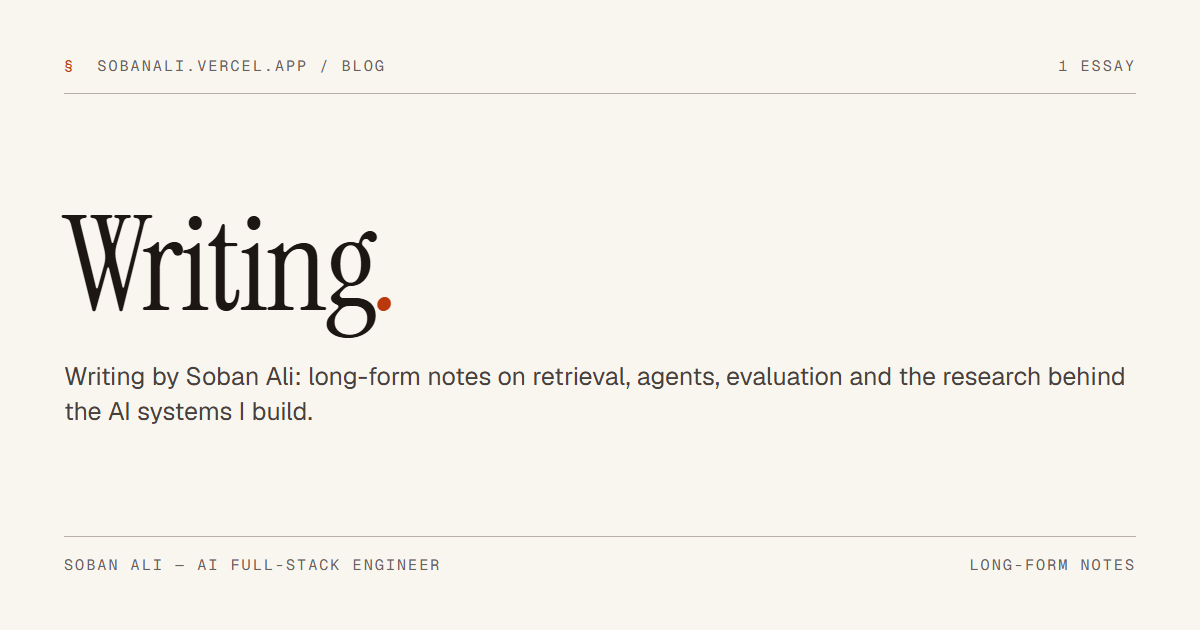
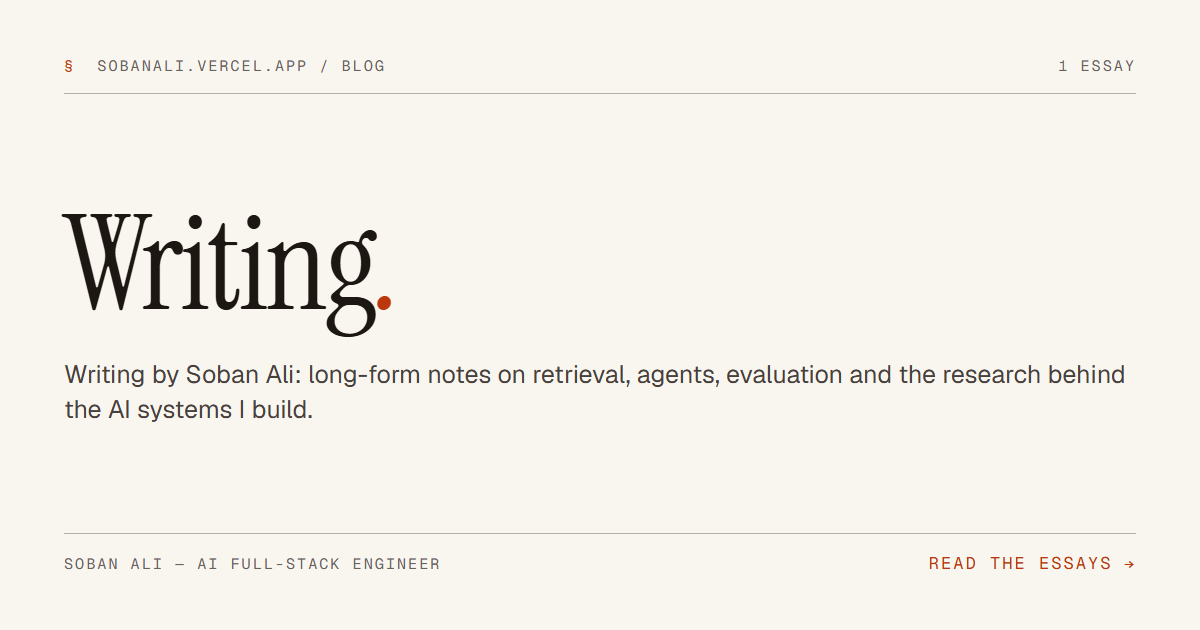
Shorten preview text and add a call to action to the images
Titles stay under 60 characters and preview descriptions under 125, with
optional shareTitle/shareDescription on posts whose own run longer. The
home page gets separate search and preview descriptions, and each card
ends with a vermilion call to action.

diff --git a/src/blog/posts.ts b/src/blog/posts.ts
@@ -11,6 +11,10 @@ export interface Post {
   // The part of the title set in the italic accent; must be a suffix of `title`.
   titleAccent?: string;
   description: string;
+  // Shorter versions for search results and link previews (≤60 / ≤125 characters,
+  // before " — Soban Ali" is added to the title). Fall back to title/description.
+  shareTitle?: string;
+  shareDescription?: string;
   date: string; // ISO date, e.g. "2026-10-04"
   readingMinutes: number;
   tags: string[];
@@ -22,6 +26,10 @@ export interface Post {
   loadBody: () => Promise<string>;
 }
 
+// The <title>/og:title and description used when a post is shared or indexed.
+export const postPageTitle = (post: Post) => `${post.shareTitle ?? post.title} — ${profile.name}`;
+export const postPageDescription = (post: Post) => post.shareDescription ?? post.description;
+
 // Newest first. Adding a post: put the Markdown (without its title) in
 // src/content/blog/<slug>.md and add an entry here.
 export const posts: Post[] = [
@@ -29,6 +37,9 @@ export const posts: Post[] = [
     slug: 'chunking-strategies-for-rag',
     title: 'Chunking Strategies for RAG: How to Choose the Right Approach',
     titleAccent: 'How to Choose the Right Approach',
+    shareTitle: 'How to Choose a Chunking Strategy for RAG',
+    shareDescription:
+      'A practical guide to fixed-size, recursive, semantic and document-aware chunking, and how to evaluate each for RAG.',
     description:
       'A practical guide to fixed-size, recursive, semantic and document-aware chunking, with overlap, parent-child retrieval and evaluation strategies for RAG systems.',
     date: '2026-10-04',

diff --git a/index.html b/index.html
@@ -4,14 +4,14 @@
     <meta charset="UTF-8" />
     <link rel="icon" type="image/svg+xml" href="/favicon.svg" />
     <meta name="viewport" content="width=device-width, initial-scale=1.0" />
-    <meta name="description" content="Soban Ali — AI full-stack engineer and final-year CS student at FAST NUCES. Multi-agent systems, RAG pipelines, and research replications that beat their baselines." />
+    <meta name="description" content="Soban Ali, AI full-stack engineer and final-year CS student at FAST NUCES, building multi-agent systems, RAG pipelines and research replications." />
     <meta name="theme-color" content="#F7F3EC" media="(prefers-color-scheme: light)" />
     <meta name="theme-color" content="#16130F" media="(prefers-color-scheme: dark)" />
     <!-- Link previews. The build rewrites these per blog route (see vite.config.ts). -->
     <link rel="canonical" href="https://sobanali.vercel.app/" />
     <meta property="og:site_name" content="Soban Ali" />
     <meta property="og:title" content="Soban Ali — AI Full-Stack Engineer" />
-    <meta property="og:description" content="AI full-stack engineer and final-year CS student at FAST NUCES. Multi-agent systems, RAG pipelines, and research replications that beat their baselines." />
+    <meta property="og:description" content="AI full-stack engineer building multi-agent systems, RAG pipelines and research replications that beat their baselines." />
     <meta property="og:type" content="website" />
     <meta property="og:url" content="https://sobanali.vercel.app/" />
     <meta property="og:image" content="https://sobanali.vercel.app/og/home.png" />

diff --git a/src/blog/BlogPost.tsx b/src/blog/BlogPost.tsx
@@ -7,7 +7,7 @@ import { profile } from '../data/content';
 import { BLOG_HREF, BlogShell, CONTAINER, EASE, Em, setMeta } from './BlogLayout';
 import Markdown from './Markdown';
 import TableOfContents, { useActiveHeading, useHeadings } from './TableOfContents';
-import { formatDate, getPost, postHref, posts, type Post } from './posts';
+import { formatDate, getPost, postHref, postPageDescription, postPageTitle, posts, type Post } from './posts';
 
 const tagHref = (tag: string) => `${BLOG_HREF}?tag=${encodeURIComponent(tag)}`;
 const X_HANDLE = profile.x.replace(/^https?:\/\/(www\.)?x\.com\//, '');
@@ -226,11 +226,11 @@ export default function BlogPost({ slug }: { slug: string }) {
       document.title = `Not found — ${profile.name}`;
       return;
     }
-    const title = `${post.title} — ${profile.name}`;
+    const title = postPageTitle(post);
     document.title = title;
-    setMeta('meta[name="description"]', post.description);
+    setMeta('meta[name="description"]', postPageDescription(post));
     setMeta('meta[property="og:title"]', title);
-    setMeta('meta[property="og:description"]', post.description);
+    setMeta('meta[property="og:description"]', postPageDescription(post));
     setMeta('meta[property="og:type"]', 'article');
     let cancelled = false;
     post.loadBody().then((text) => {

diff --git a/scripts/blog-pages.ts b/scripts/blog-pages.ts
@@ -65,7 +65,7 @@ export function blogPages(): Plugin {
       } finally {
         await server.close();
       }
-      const [{ profile }, { posts, BLOG_DESCRIPTION }, { SITE_URL, ogImage }] = mods;
+      const [{ profile }, { posts, BLOG_DESCRIPTION, postPageTitle, postPageDescription }, { SITE_URL, ogImage }] = mods;
 
       const template = readFileSync(path.join(outDir, 'index.html'), 'utf8');
       writeFileSync(path.join(outDir, '404.html'), template);
@@ -84,8 +84,8 @@ export function blogPages(): Plugin {
       });
       for (const post of posts) {
         write(`blog/${post.slug}`, {
-          title: `${post.title} — ${profile.name}`,
-          description: post.description,
+          title: postPageTitle(post),
+          description: postPageDescription(post),
           url: `${SITE_URL}/blog/${post.slug}`,
           image: ogImage(post.slug),
           type: 'article',

diff --git a/CLAUDE.md b/CLAUDE.md
@@ -34,7 +34,7 @@ Single-page React 19 + TypeScript portfolio built with Vite 6. The portfolio is 
 
 **Blog** lives in `src/blog/`. Posts are registered in `src/blog/posts.ts` (title, `titleAccent`, description, date, reading time, tags, TL;DR points, a themed SVG `cover` from `covers.tsx`, and a `loadBody` dynamic import of `src/content/blog/<slug>.md?raw`, written without its title). Writing is a separate page, not a home-page section: the Navbar and mobile menu link to `/blog`. `BlogIndex` lists posts (`PostList`) with a tag filter synced to `?tag=`; post tags link there. Both blog pages share `BlogLayout.tsx` (nav with back link and reading-progress hairline, colophon footer). On a post the contents sit in a sticky left column (a collapsible panel on mobile). `Markdown.tsx` renders posts with react-markdown + GFM + KaTeX math + rehype-slug, plus a small lowlight plugin registering only a few languages (add more there; rehype-highlight was dropped because it bundles ~37). A fenced ```` ```diagram ```` block naming a key in `diagrams.tsx` becomes a numbered `Fig. n`. Article typography is the `.prose-paper` layer in `index.css`, built on the palette tokens (no typography plugin). The table of contents is read from the rendered `h2`/`h3` (whose `id`s come from rehype-slug, so in-article `#links` must match them). All blog code, KaTeX and the article text load only on `/blog/*`.
 
-**Link previews.** `index.html` carries the Open Graph / X card tags, with absolute URLs from `src/data/site.ts` (`SITE_URL`). Crawlers don't run JS, so the `blogPages` plugin (`scripts/blog-pages.ts`, build only) writes `dist/blog/index.html` and `dist/blog/<slug>/index.html` with each page's title, description and image, plus a `404.html` shell; `vercel.json` rewrites `/blog` and `/blog/:slug` to them. The 1200×630 images in `public/og/` (`home`, `blog`, one per post slug) are rendered by `npm run og` (headless Chrome; set `CHROME_PATH` if it isn't found). After adding a post or changing the profile, run `npm run og` and commit the PNGs.
+**Link previews.** `index.html` carries the Open Graph / X card tags, with absolute URLs from `src/data/site.ts` (`SITE_URL`). Crawlers don't run JS, so the `blogPages` plugin (`scripts/blog-pages.ts`, build only) writes `dist/blog/index.html` and `dist/blog/<slug>/index.html` with each page's title, description and image, plus a `404.html` shell; `vercel.json` rewrites `/blog` and `/blog/:slug` to them. The 1200×630 images in `public/og/` (`home`, `blog`, one per post slug) are rendered by `npm run og` (headless Chrome; set `CHROME_PATH` if it isn't found). After adding a post or changing the profile, run `npm run og` and commit the PNGs. Keep titles ≤60 and preview descriptions ≤125 characters: a post whose `title`/`description` run longer sets `shareTitle`/`shareDescription` in `posts.ts`.
 
 **Contact form** (`src/components/ContactForm.tsx`) posts JSON to Formspree (`https://formspree.io/f/xeepkerq`). Validation is client-side in `validateForm`; the first invalid field is focused, errors are linked via `aria-describedby`, and network/non-OK responses surface an inline error with a mailto fallback.
 
